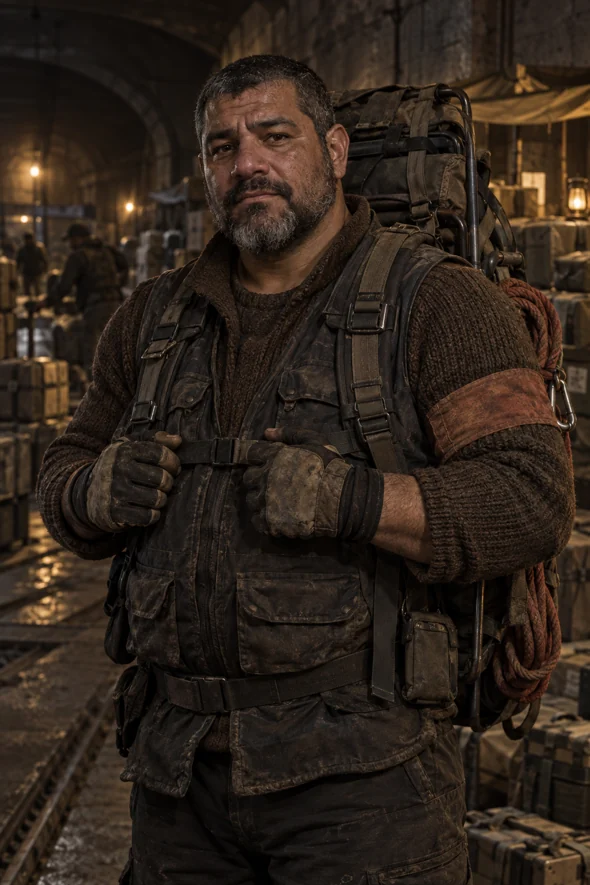
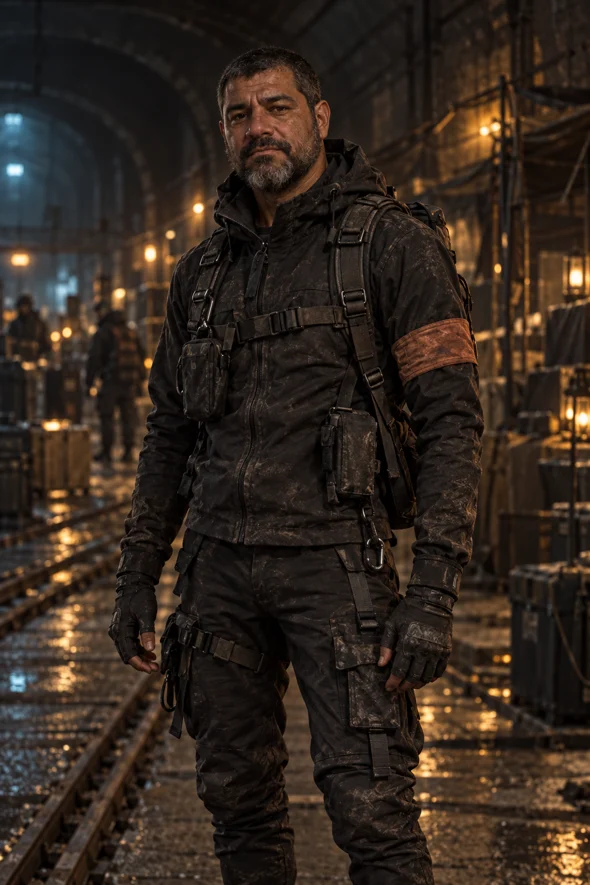
feat: add courier skill branches and blind navigator
Update all three Messengers with slim athletic techwear portraits. Make Tomás a blind tunnel navigator with lower combat accuracy, listening, acoustic detours and guided retreats. Add persistent skill branches, buying and selling, and remove crafting from the courier activity.

Validation: 184 automated tests plus Chromium checks at 1440, 390 and 360 pixels.

diff --git a/extensions/mensajeros/play.css b/extensions/mensajeros/play.css
@@ -1,2 +1,5 @@
 .topbar{gap:16px;flex-wrap:wrap}.topbar nav{display:flex;gap:8px;margin-left:auto;flex-wrap:wrap}#bootStatus{padding:20px;text-align:center;color:var(--cyan)}.catalog-tabs{display:flex;flex-wrap:wrap;gap:8px}.catalog-tabs [aria-pressed=true]{background:var(--amber);color:var(--ink)}.crew-mini{display:grid;gap:6px;margin:16px 0}.crew-mini button{display:flex;align-items:center;text-align:left;gap:10px;border-color:#ffffff22;padding:5px;text-transform:none;letter-spacing:0}.crew-mini img{width:40px;height:55px;object-fit:cover}.crew-mini small{display:block;font-size:10px}.crew-cards,.shop-grid{display:grid;grid-template-columns:repeat(3,minmax(0,1fr));gap:14px}.crew-cards article,.shop-grid article{min-width:0;border:1px solid var(--line);padding:12px}.crew-cards img{width:100%;height:220px;object-fit:cover;object-position:50% 20%}.crew-cards h3{font-size:19px;margin-top:15px}.crew-cards p,.shop-grid p{font-size:13px}.crew-cards b{font-size:12px}.crew-cards button,.shop-grid button{width:100%;margin-top:14px}.shop-grid img{width:76px;height:76px;object-fit:cover}.shop-grid h3{font-size:16px;margin-top:12px}.contact-list{display:grid;gap:8px}.contact-list button{display:flex;align-items:center;gap:15px;text-align:left}.contact-list img{width:45px;height:60px;object-fit:cover}.help-sections{display:grid;gap:22px}.help-sections h3{font-size:19px;color:var(--amber2)}.help-sections p{margin:0}.combat-enemies{display:flex;gap:12px;margin:20px 0}.enemy{flex:1;display:flex;align-items:center;flex-direction:column;gap:6px;border-color:#735353}.enemy img{width:100%;max-width:180px;height:140px;object-fit:cover;object-position:50% 25%}.enemy.targeted{border:2px solid var(--red);background:#df4a4a15}.combat-team{display:flex;gap:8px;margin:20px 0}.combat-team>div{flex:1;min-width:0;text-align:center;padding:8px;border:1px solid #ffffff22}.combat-team img{height:65px;width:50px;object-fit:cover}.combat-team b,.combat-team span{display:block;font-size:12px}.combat-team .current-actor{border-color:var(--cyan);background:#75d3d711}.choices{grid-template-columns:1fr 1fr}.choices button{font-size:11px;hyphens:none;overflow-wrap:normal}.offer-grid{grid-template-columns:1fr 1fr}.offer small{font-size:11px}.offer .eyebrow{line-height:1.5}button{hyphens:none;overflow-wrap:normal}.dialog-body{overflow-wrap:break-word}@media(max-width:700px){.topbar{padding:15px 12px}.topbar .brand{min-width:100%;font-size:22px}.topbar nav{margin:0;width:100%;gap:6px}.topbar nav button{flex:1;min-width:60px;font-size:9px;padding:8px 5px}.crew-cards,.shop-grid{grid-template-columns:1fr}.crew-cards article{display:grid;grid-template-columns:85px 1fr;gap:5px 12px}.crew-cards img{grid-row:1/6;height:160px}.crew-cards p{grid-column:2}.crew-cards h3{font-size:19px;margin:0}.crew-cards .chip{margin:0}.crew-cards button{grid-column:1/-1}.shop-grid article{display:grid;grid-template-columns:75px 1fr;gap:0 12px}.shop-grid img{grid-row:1/3}.shop-grid button{grid-column:1/-1}.offer-grid{grid-template-columns:1fr}.choices{grid-template-columns:1fr}.enemy img{height:105px}.enemy{padding:9px}.dialog-body p{font-size:14px}.crew-mini{grid-template-columns:repeat(3,minmax(0,1fr))}.crew-mini button{flex-direction:column;gap:3px;text-align:center}.crew-mini img{width:50px;height:65px}#status .status-data{grid-template-columns:repeat(2,1fr)}}
 .craft-heading{margin-top:26px}.contact-list small{display:block}.dialog-head{position:sticky;top:0;z-index:2;background:#090e0c}.closing{pointer-events:none}@media(max-width:700px){.topbar nav button{min-width:53px;font-size:8px;letter-spacing:.03em}.choices{gap:8px}}
+
+.skill-tree{display:grid;gap:10px;margin:14px 0}.skill-node{border-left:2px solid #b78050;padding:10px;background:#ffffff05}.skill-child{margin-left:14px}.skill-node p{font-size:12px}.skill-node button{white-space:normal;overflow-wrap:break-word}
+.crew-cards .skill-tree,.crew-cards h4{grid-column:1/-1}.crew-cards .skill-node p{margin:8px 0}.crew-cards h4{margin:16px 0 0}.skill-node{min-width:0}

diff --git a/docs/metro-refugios/INTEGRACION-JUGABLE.md b/docs/metro-refugios/INTEGRACION-JUGABLE.md
@@ -48,7 +48,7 @@ El inhibidor de Adasme tiene 20 minutos narrativos de uso: leer no consume tiemp
 
 Las entregas son transacciones únicas, retiran la carga exacta y no se pagan por encontrar el objeto o llegar a una estación. La carga no puede venderse, desarmarse ni descartarse. Los objetos incluyen inspección con imagen y uso. Se reutiliza arte existente para los objetos nuevos de apoyo (mapas, radio, piezas, medicina); las cinco ilustraciones aprobadas de rotor, sensor, humo, inhibidor y agua siguen presentes.
 
-Las fichas se usan en la central o en puntos de control. Las compras previas se agregan al aceptar; remanentes de compras y materiales propios se conservan al entregar, mientras que la dotación prestada pertenece al encargo. La victoria recupera munición, agua y materiales. Se fabrican señuelos con 1 electrónica + 1 pieza metálica y trampas con 2 piezas metálicas. Las alertas regionales persisten entre encargos.
+Las fichas se usan en la central o en puntos de control. Las compras previas se agregan al aceptar; remanentes de compras y materiales propios se conservan al entregar, mientras que la dotación prestada pertenece al encargo. La victoria recupera munición, agua y materiales. Los Mensajeros no fabrican. Compran señuelos y trampas; venden objetos propios y materiales recuperados en las postas. Las alertas regionales persisten entre encargos.
 
 ## Verificación
 
@@ -57,3 +57,16 @@ Las fichas se usan en la central o en puntos de control. Las compras previas se 
 Prueba Chromium local: introducción → menú → Mara → encargos; entrega completa de Guzmán; extracción completa de Adasme con combates; recarga durante viaje y durante combate; regreso a la narrativa sin modificar sus recursos/decisiones; compra/fabricación; inspección; zoom y arrastre del mapa. Revisión a 1440, 390 y 360 píxeles. El balance es una primera versión jugable, con constantes en los datos y motor; no representa una prueba extensa con jugadores.
 
 No se cambian ni se publican los laboratorios de Sites. El juego se integra en el repositorio y su despliegue depende del alojamiento habitual.
+
+
+## Revisión de Los Mensajeros — 18-sep-2026
+
+Los tres llevan techwear negro ajustado, son delgados y atléticos. Retratos sustituidos conservando sus identidades. Tomás es ciego: precisión base de disparo 45%, cuerpo a cuerpo 60%; encuentros electrónicos restan 15 puntos. Escuchar consume un turno y mejora el próximo golpe cercano en 20 puntos (30 con Separar sonidos). No mejora disparos ni otorga percepción sobrenatural.
+
+Tomás evita un contacto por encargo mediante un desvío acústico (desgaste 2, o 6 con ruido electrónico), ampliable a dos. Puede guiar retirada al andén anterior con desgaste 5 (2 mejorado), más 4 entre ruido electrónico. Retirarse no completa el tramo ni borra vigilancia. Requiere estar consciente.
+
+Cada personaje comienza con un punto de habilidad y gana otro por nivel. Rama de tres nodos: raíz seguida de dos especializaciones, un punto por nodo. Rocío: Lectura de rutas → Marca precisa / Pulso firme. Tomás: Memoria acústica → Separar sonidos / Ruta de salida. Bruno: Paso sostenido → Cobertura coordinada / Primeros auxilios. Se aprende en postas; las partidas anteriores obtienen los puntos correspondientes a su nivel sin reiniciarse. Guardado y recuperación conservan habilidades y usos gastados.
+
+La tienda existente se mantiene; se elimina fabricación de interfaz y motor. Las reservas antiguas de materiales pueden venderse. Carga protegida y suministros prestados no pueden venderse. La campaña principal conserva sus sistemas.
+
+Validación de esta revisión: 184 pruebas automatizadas aprobadas, incluida migración, prerrequisitos, escucha, retirada, límites de uso y comercio. Balance inicial pendiente de experiencia con jugadores.

diff --git a/characters/mensajeros/PROVENANCE.md b/characters/mensajeros/PROVENANCE.md
@@ -9,3 +9,6 @@ Rocío Rojas: mujer de 28 años, exploradora, complexión atlética delgada, pó
 Tomás Leiva: hombre de 32 años, técnico de señales, complexión delgada, rostro largo y anguloso, cabello oscuro corto rizado, bigote discreto, chaqueta de trabajo oliva, bolso y herramientas, receptor ficticio con luz cian, sala de relés.
 
 Bruno Araya: hombre de 41 años, porteador y rescatista, robusto, rostro ancho curtido y nariz amplia, barba corta entrecana, cabello muy corto, chaleco utilitario sobre tejido marrón, mochila de armazón y cuerdas, depósito comunitario.
+
+## Revisión techwear
+Tres ediciones individuales con ImageGen integrado, usando retrato anterior para identidad y referencia adjunta de vestimenta. Prompt: conservar rostro; cuerpo delgado, atlético; chaqueta técnica negra ajustada, pantalón cargo entallado, arnés compacto, tela gastada y brazalete cobre; túneles Neo Santiago 2130, iluminación ámbar/cian, realismo cinematográfico, vertical 2:3, sin texto ni marcas. Tomás: gafas oscuras, oídos libres y bastón de movilidad. Bruno: sustituir complexión robusta por delgada y atlética. PNG 1024×1536 convertidos a WebP 590×885 calidad 86 en los mismos tres archivos consumidos por el juego.
